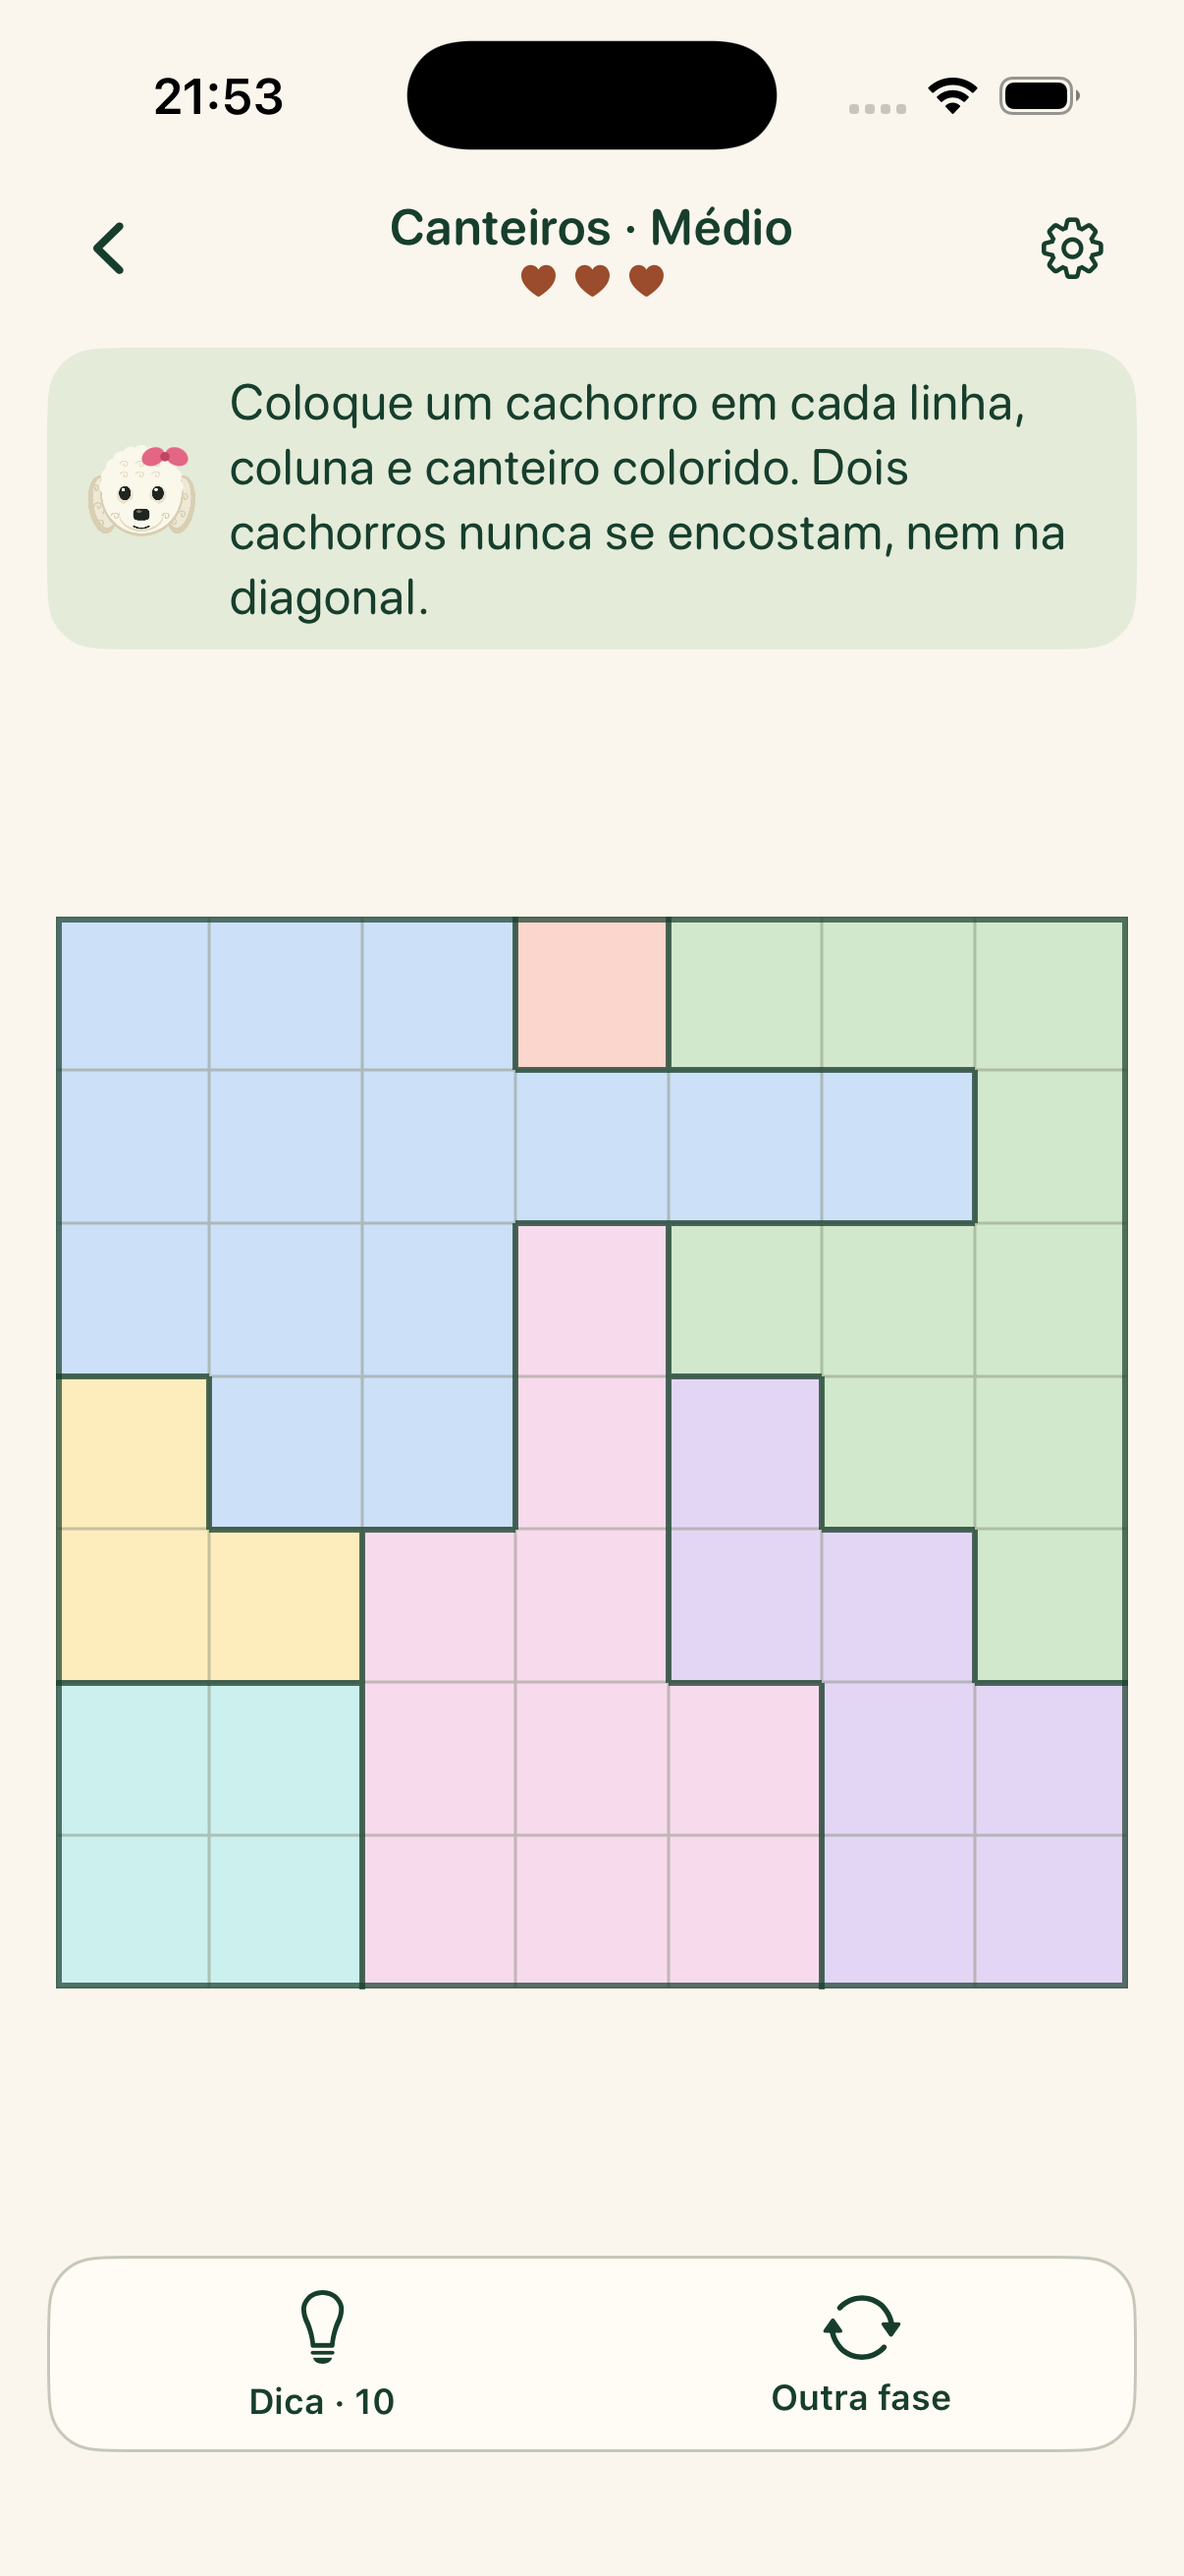
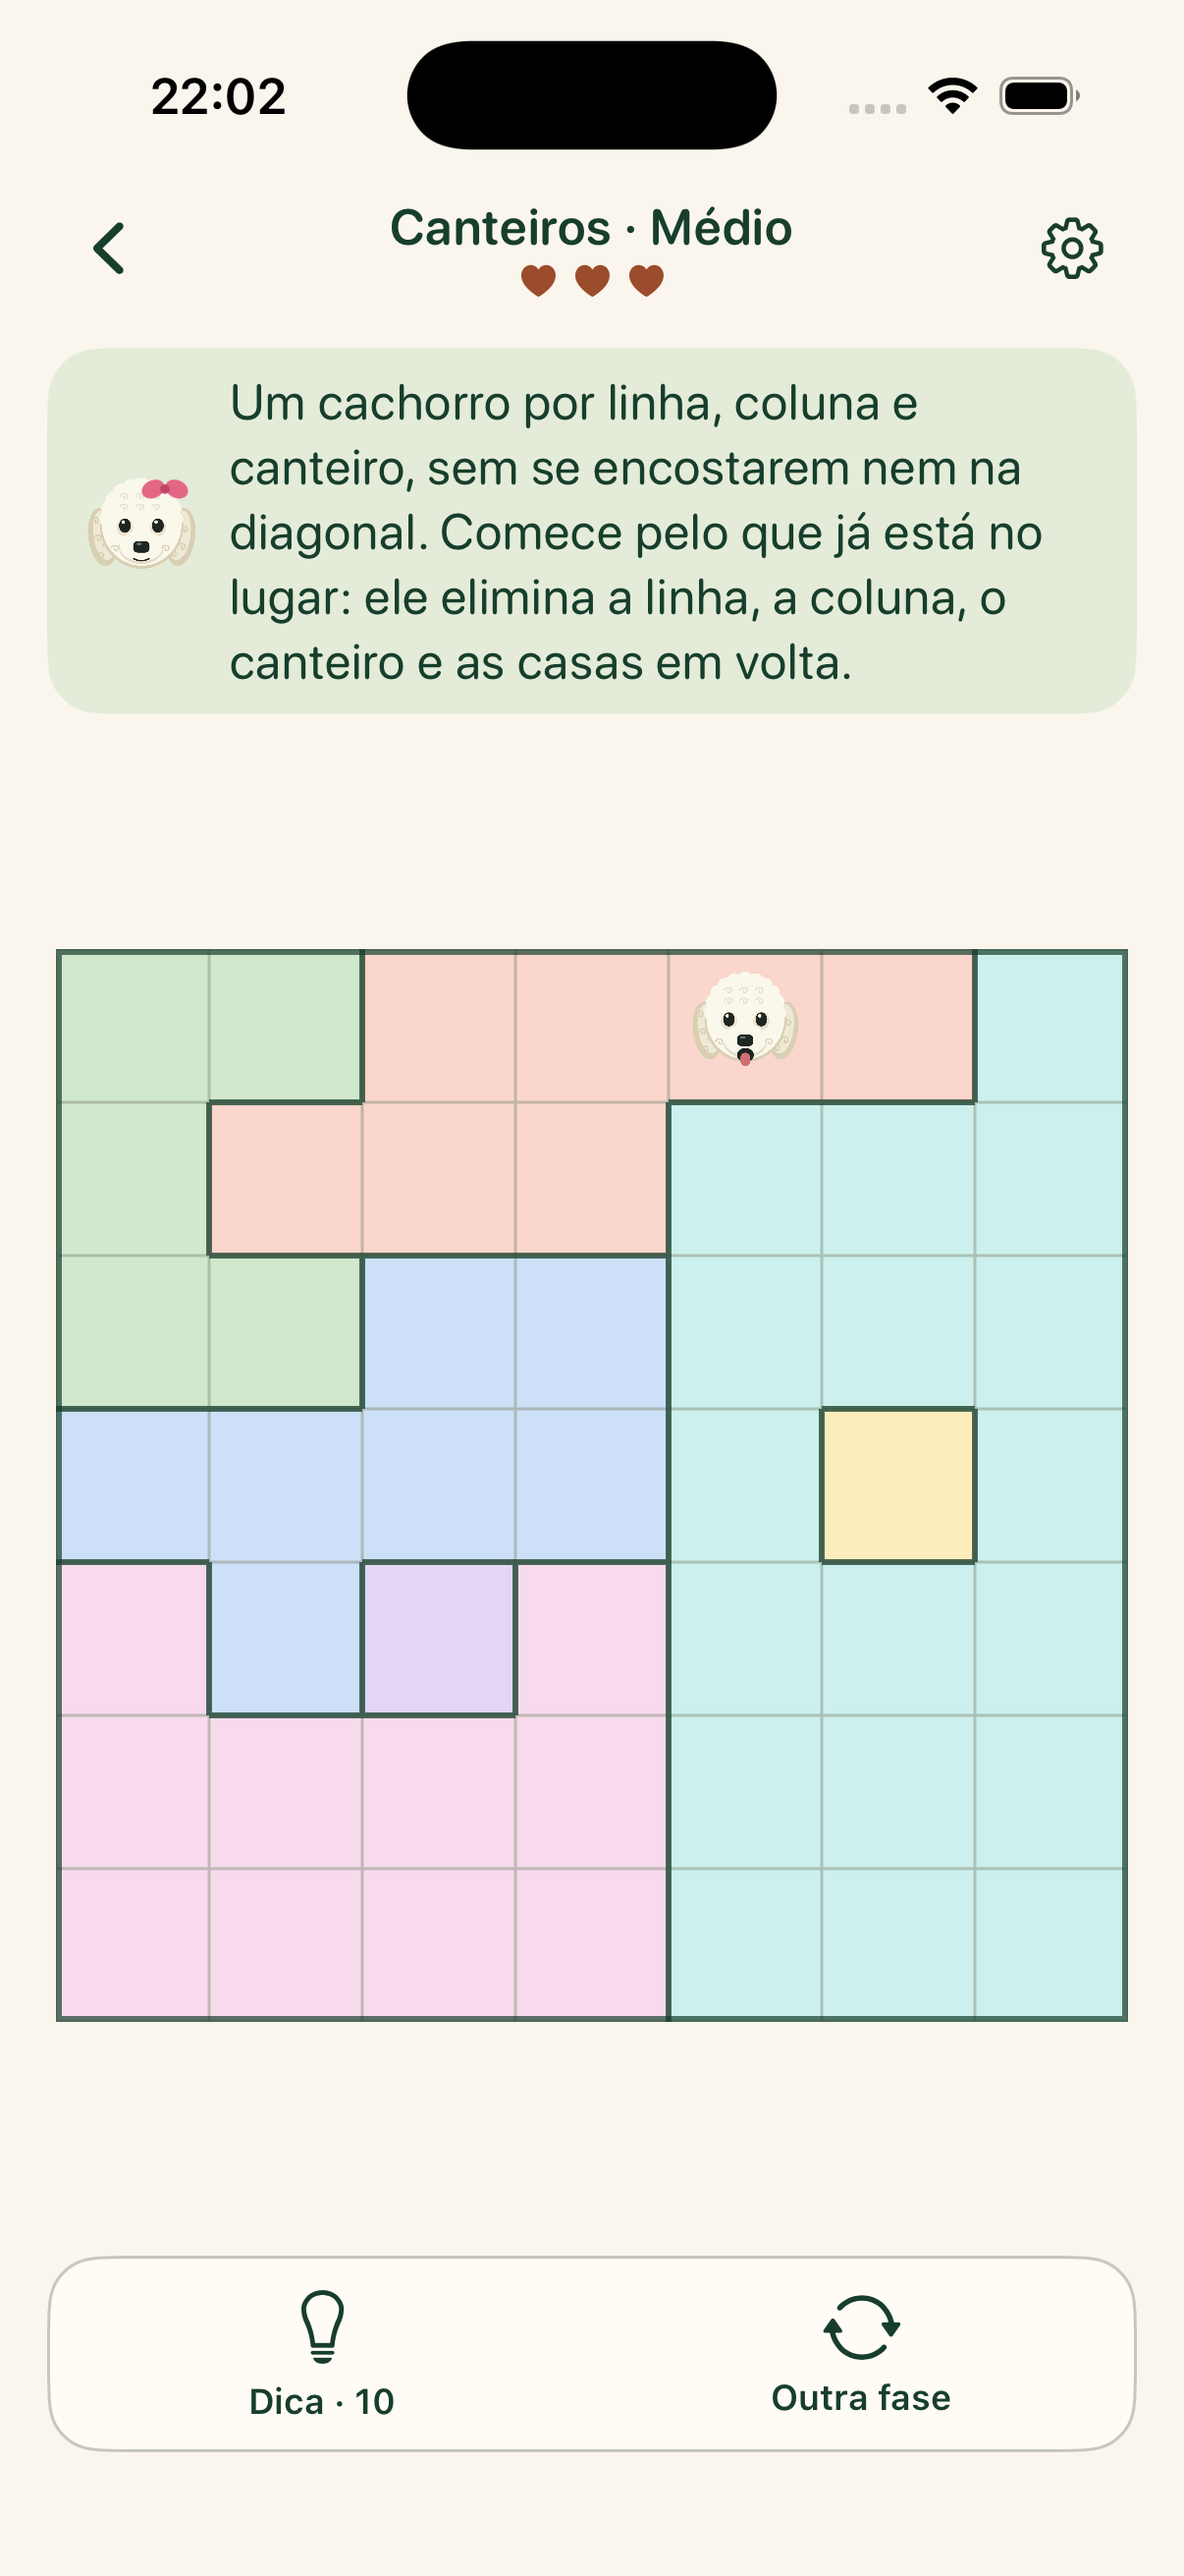
fix: Canteiros start with a dog in place and are solvable by deduction
Every Queens level now shows one dog from the start (more only where a
human-style solver would stall), and generation certifies the level can be
finished by deduction alone, without guessing.

diff --git a/Sources/PuzzleCore/Queens.swift b/Sources/PuzzleCore/Queens.swift
@@ -13,7 +13,13 @@ public enum Queens {
                 if solutions.count == 1 {
                     var solution = Array(repeating: 0, count: n * n)
                     for (r, c) in columns.enumerated() { solution[r * n + c] = 1 }
-                    return CellPuzzle(id: id, mode: .queens, size: n, solution: solution, regions: regions)
+                    // One dog always starts in place; more are given only where deduction would stall.
+                    let dogs = columns.enumerated().map { $0.offset * n + $0.element }.shuffled(using: &rng)
+                    var givens = Array(repeating: 0, count: n * n)
+                    givens[dogs[0]] = 1
+                    for dog in dogs.dropFirst() where deduce(n: n, regions: regions, givens: givens) == nil { givens[dog] = 1 }
+                    guard deduce(n: n, regions: regions, givens: givens) == solution else { break }
+                    return CellPuzzle(id: id, mode: .queens, size: n, solution: solution, givens: givens, regions: regions)
                 }
                 guard let other = solutions.first(where: { $0 != columns }) else { break }
                 // Hand a cell where the other solution puts a dog to a neighbouring region.
@@ -29,6 +35,64 @@ public enum Queens {
             }
         }
         return nil
+    }
+
+    /// Solves with the deductions a person makes, from the given dogs. Returns the dogs grid when
+    /// that finishes the puzzle, nil when deduction stalls (or the puzzle is broken).
+    ///  - a row, column or region with a single possible cell gets the dog;
+    ///  - a region whose possible cells all sit in one row (or column) empties the rest of that line,
+    ///    and a line whose possible cells all sit in one region empties the rest of that region;
+    ///  - a cell whose dog would leave some row, column or region with no possible cell is ruled out.
+    public static func deduce(n: Int, regions: [Int], givens: [Int]) -> [Int]? {
+        var state = Array(repeating: 0, count: n * n) // 0 open, 1 dog, -1 empty
+        func groups() -> [[Int]] {
+            (0..<n).map { r in (0..<n).map { r * n + $0 } } + (0..<n).map { c in (0..<n).map { $0 * n + c } }
+                + Set(regions).sorted().map { region in regions.indices.filter { regions[$0] == region } }
+        }
+        let all = groups()
+        func blocked(by dog: Int) -> [Int] {
+            let r = dog / n, c = dog % n
+            var cells = Set<Int>()
+            for i in 0..<n { cells.insert(r * n + i); cells.insert(i * n + c) }
+            for i in regions.indices where regions[i] == regions[dog] { cells.insert(i) }
+            for dr in -1...1 { for dc in -1...1 {
+                let rr = r + dr, cc = c + dc
+                if (0..<n).contains(rr) && (0..<n).contains(cc) { cells.insert(rr * n + cc) }
+            } }
+            cells.remove(dog)
+            return Array(cells)
+        }
+        func place(_ dog: Int) -> Bool {
+            guard state[dog] != -1 else { return false }
+            state[dog] = 1
+            for cell in blocked(by: dog) { if state[cell] == 1 { return false }; state[cell] = -1 }
+            return true
+        }
+        for cell in givens.indices where givens[cell] == 1 { guard place(cell) else { return nil } }
+        var progress = true
+        while progress {
+            progress = false
+            for group in all where !group.contains(where: { state[$0] == 1 }) {
+                let open = group.filter { state[$0] == 0 }
+                if open.isEmpty { return nil }
+                if open.count == 1 { guard place(open[0]) else { return nil }; progress = true; continue }
+                // Confined to one line or one region: clear the rest of it.
+                for line in all where line != group && open.allSatisfy(line.contains) {
+                    for cell in line where state[cell] == 0 && !group.contains(cell) { state[cell] = -1; progress = true }
+                }
+            }
+            if progress { continue }
+            for cell in state.indices where state[cell] == 0 {
+                let cleared = Set(blocked(by: cell)).union([cell])
+                let strands = all.contains { group in
+                    !group.contains(where: { state[$0] == 1 }) && !group.contains(cell)
+                        && group.allSatisfy { state[$0] != 0 || cleared.contains($0) }
+                }
+                if strands { state[cell] = -1; progress = true }
+            }
+        }
+        guard state.filter({ $0 == 1 }).count == n else { return nil }
+        return state.map { $0 == 1 ? 1 : 0 }
     }
 
     /// Solutions as the column of the dog in each row, up to `limit`.

diff --git a/Tests/PuzzleCoreTests/LogicModeTests.swift b/Tests/PuzzleCoreTests/LogicModeTests.swift
@@ -22,7 +22,22 @@ final class LogicModeTests: XCTestCase {
             XCTAssertTrue(Queens.connected(p.regions, n))
             for a in dogs { for b in dogs where a < b { XCTAssertFalse(abs(a / n - b / n) <= 1 && abs(a % n - b % n) <= 1, "Dogs never touch") } }
             XCTAssertEqual(Queens.solve(n: n, regions: p.regions, limit: 2).count, 1)
+            let given = p.givens.indices.filter { p.givens[$0] == 1 }
+            XCTAssertGreaterThanOrEqual(given.count, 1, "One dog always starts in place")
+            XCTAssertTrue(given.allSatisfy { p.solution[$0] == 1 })
+            XCTAssertEqual(Queens.deduce(n: n, regions: p.regions, givens: p.givens), p.solution, "Solvable by deduction from the given dogs")
         }
+    }
+    func testQueensDeductionsOnASmallGrid() {
+        // 4×4 has no solution with dogs not touching; use 5×5 rows-as-regions puzzle shape.
+        let n = 5
+        let columns = [0, 2, 4, 1, 3]
+        let regions = (0..<n * n).map { cell in columns[cell / n] == cell % n ? cell / n : (cell / n + (cell % n == 0 ? 0 : 1)) % n }
+        if Queens.connected(regions, n), Queens.solve(n: n, regions: regions, limit: 2).count == 1 {
+            var givens = Array(repeating: 0, count: n * n); givens[0] = 1
+            XCTAssertNotNil(Queens.deduce(n: n, regions: regions, givens: givens))
+        }
+        XCTAssertNil(Queens.deduce(n: 5, regions: Array(repeating: 0, count: 25), givens: Array(repeating: 0, count: 25)), "A single region can't hold five dogs")
     }
     func testTentsFollowTheRulesAndAreUnique() throws {
         for p in try puzzles(.tents) {
@@ -80,7 +95,7 @@ final class LogicModeTests: XCTestCase {
         XCTAssertEqual(attempt.lives, 2)
         attempt.toggleMark(at: wrong)
         XCTAssertTrue(attempt.marks.contains(wrong), "× is free")
-        for cell in p.solution.indices where p.solution[cell] == 1 { XCTAssertEqual(attempt.place(1, at: cell), .placed) }
+        for cell in p.solution.indices where p.solution[cell] == 1 && p.givens[cell] == 0 { XCTAssertEqual(attempt.place(1, at: cell), .placed) }
         XCTAssertTrue(attempt.won)
         XCTAssertEqual(attempt.paws, 2)
         XCTAssertEqual(attempt.place(1, at: wrong), .ignored, "Nothing changes after winning")

diff --git a/Sources/PuzzleCore/CellPuzzle.swift b/Sources/PuzzleCore/CellPuzzle.swift
@@ -28,7 +28,7 @@ public enum LogicMode: String, CaseIterable, Codable, Sendable {
         switch self {
         case .path: String(localized: "Desenhe o caminho da Margot até a casinha. Os números contam as casas do caminho em cada linha e coluna.")
         case .nonogram: String(localized: "Pinte as casas: os números dizem, em ordem, os blocos de casas pintadas de cada linha e coluna. No fim aparece um desenho.")
-        case .queens: String(localized: "Coloque um cachorro em cada linha, coluna e canteiro colorido. Dois cachorros nunca se encostam, nem na diagonal.")
+        case .queens: String(localized: "Um cachorro por linha, coluna e canteiro, sem se encostarem nem na diagonal. Comece pelo que já está no lugar: ele elimina a linha, a coluna, o canteiro e as casas em volta.")
         case .tents: String(localized: "Cada árvore ganha uma casinha ao lado (não na diagonal). Os números contam as casinhas de cada linha e coluna, e duas casinhas nunca se encostam.")
         case .sudoku: String(localized: "Cada petisco aparece uma vez em cada linha, coluna e bloco.")
         case .binary: String(localized: "Patinhas claras e escuras: nunca três iguais seguidas, metade de cada em toda linha e coluna, e nenhuma linha ou coluna repetida.")

diff --git a/README.md b/README.md
@@ -289,12 +289,12 @@ Além do Passeio, a casa da Margot oferece mais cinco atividades, escolhidas aci
 | Modo | Regra | Grades (Fácil → Especialista) |
 |---|---|---|
 | **Jardim pintado** (Nonogram) | os números dizem os blocos pintados de cada linha e coluna; no fim aparece um desenho | 5, 8, 10, 12 |
-| **Canteiros** (Queens) | um cachorro por linha, coluna e canteiro, sem se encostarem | 6, 7, 8, 9 |
+| **Canteiros** (Queens) | um cachorro por linha, coluna e canteiro, sem se encostarem; um cachorro já começa no lugar | 6, 7, 8, 9 |
 | **Casinhas e árvores** (Tents) | uma casinha ao lado de cada árvore, com contagens por linha e coluna, sem se encostarem | 6, 8, 10, 12 |
 | **Sudoku de petiscos** | cada valor uma vez por linha, coluna e bloco | 4, 6, 9, 9 (menos pistas no Especialista) |
 | **Patinhas pareadas** (Takuzu) | claras e escuras, nunca três iguais seguidas, metade de cada por linha e coluna, sem linhas repetidas | 6, 8, 10, 12 |
 
-- **Solução única:** cada gerador certifica que a fase tem só uma solução. O Jardim usa só desenhos que a lógica linha a linha resolve inteiros; os outros usam um solucionador que conta soluções. Testes conferem as regras e a unicidade em todas as dificuldades. Para reproduzir os tempos: `swift run -c release Calibration modes`; o mais lento é o Patinhas 12×12, com cerca de 0,1 s de mediana.
+- **Solução única:** cada gerador certifica que a fase tem só uma solução. O Jardim usa só desenhos que a lógica linha a linha resolve inteiros; os outros usam um solucionador que conta soluções. O Canteiros vai além: começa com um cachorro no lugar (às vezes dois ou três no Especialista) e um solucionador com as deduções de uma pessoa (casa única na linha, coluna ou canteiro; canteiro preso numa linha; casa que deixaria um grupo sem lugar) certifica que dá para terminar sem chutar. Testes conferem as regras e a unicidade em todas as dificuldades. Para reproduzir os tempos: `swift run -c release Calibration modes`; o mais lento é o Patinhas 12×12, com cerca de 0,1 s de mediana.
 - **Regras de jogo iguais às do Passeio:** 3 vidas; colocar algo que a solução não tem custa uma vida e é recusado; tocar e segurar marca ×, de graça. O Sudoku e o Patinhas usam uma paleta para escolher o que colocar.
 - **Recompensa e dica:** cada fase concluída rende moedas e alegria como um passeio, com a mesma regra contra farm. A **Dica** revela uma casa certa por 10 moedas.
 - **Fase pronta antes:** a próxima fase do mesmo modo e nível é gerada em segundo plano.
